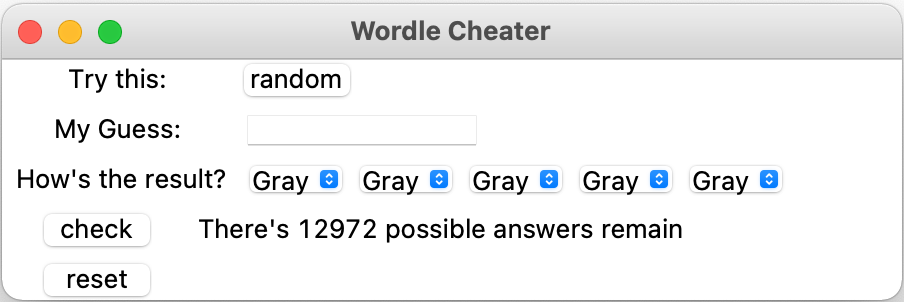
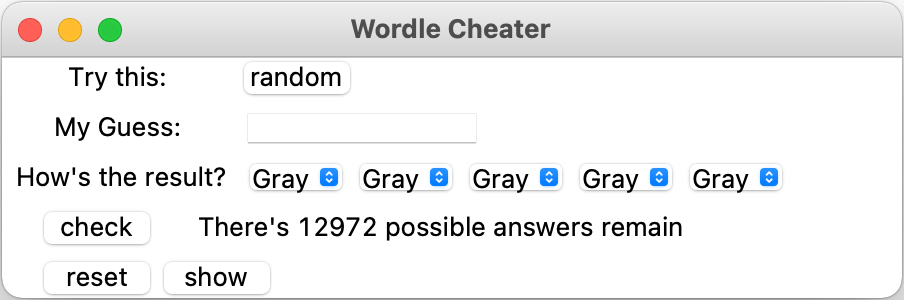
show

diff --git a/app.py b/app.py
@@ -1,6 +1,7 @@
 import json
 import tkinter as tk
 import tkinter.messagebox
+import tkinter.font as tkFont
 import random
 
 with open('answers.json', 'r') as r:
@@ -103,6 +104,22 @@ def reset():
     var4.set(optionList[2])
     var5.set(optionList[2])
 
+def show():
+    global answers
+
+    newWindow = tk.Toplevel(main)
+    newWindow.title('answers')
+
+    scrollbar = tk.Scrollbar(newWindow)
+    scrollbar.pack(side = "right", fill = "y")
+
+    listbox = tk.Listbox(newWindow, yscrollcommand = scrollbar.set, font = tkFont.Font(size = 25))
+    for answer in answers:
+        listbox.insert(tk.END, answer)
+    listbox.place(x = 0, y = 0, width = 450, height = 120)
+
+    scrollbar.config(command = listbox.yview)
+
 
 
 
@@ -121,6 +138,8 @@ resetButton = tk.Button(main, text = "reset", command = reset)
 
 myGuess = tk.StringVar()
 myGuessEntry = tk.Entry(main, textvariable = myGuess)
+
+buttonExample = tk.Button(main, text = "show", command = show)
 
 optionList = ['Green', 'Yellow', 'Gray']
 
@@ -163,5 +182,6 @@ checkButton.place(x = 20, y = 75, width = 55, height = 20)
 remainLabel.place(x = 95, y = 75, width = 250, height = 20)
 
 resetButton.place(x = 20, y = 100, width = 55, height = 20)
+buttonExample.place(x = 80, y = 100, width = 55, height = 20)
 
 main.mainloop()
